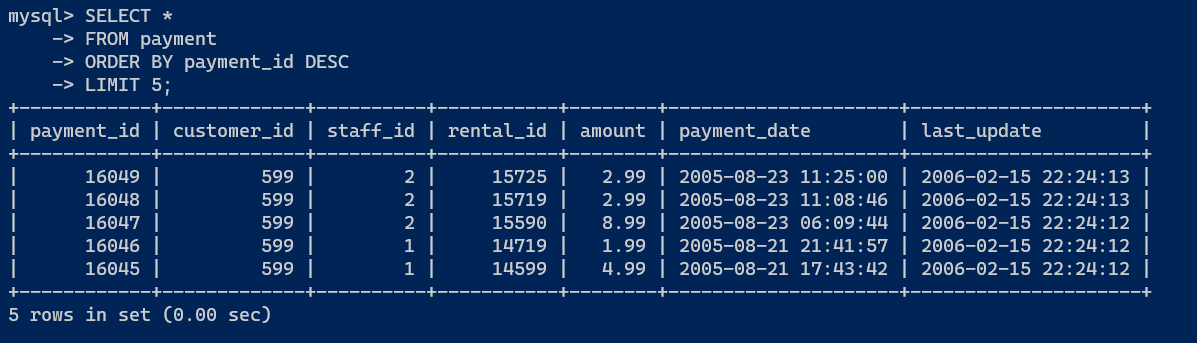
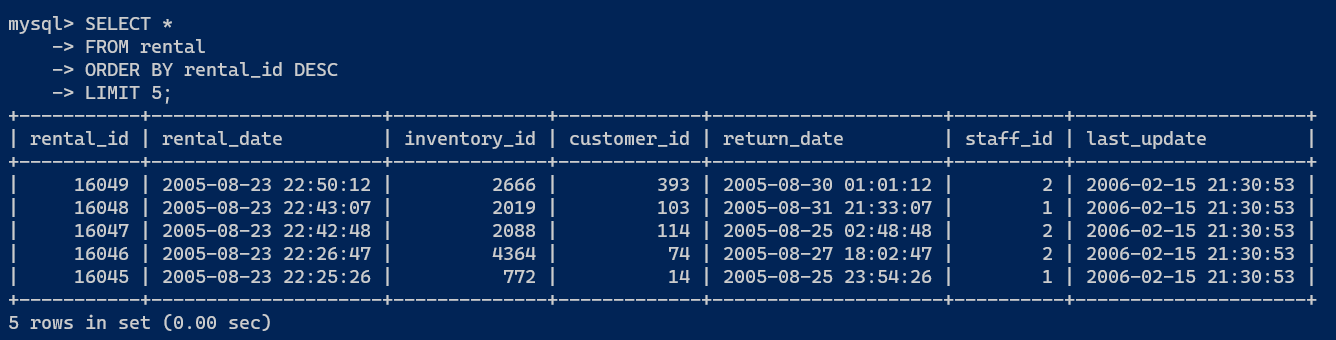
Исправил ошибку в задании 3

Changed region(s): [[0.0, 0.0294, 0.9891, 0.9706], [0.9582, 0.3824, 0.9891, 0.4118]]

diff --git a/README.md b/README.md
@@ -50,8 +50,8 @@ AND CAST(payment_date AS DATE) BETWEEN '2005-06-15' AND '2005-06-18';
 
 ```
 SELECT * 
-FROM payment
-ORDER BY payment_id DESC 
+FROM rental
+ORDER BY rental_id DESC 
 LIMIT 5;
 
 ```
